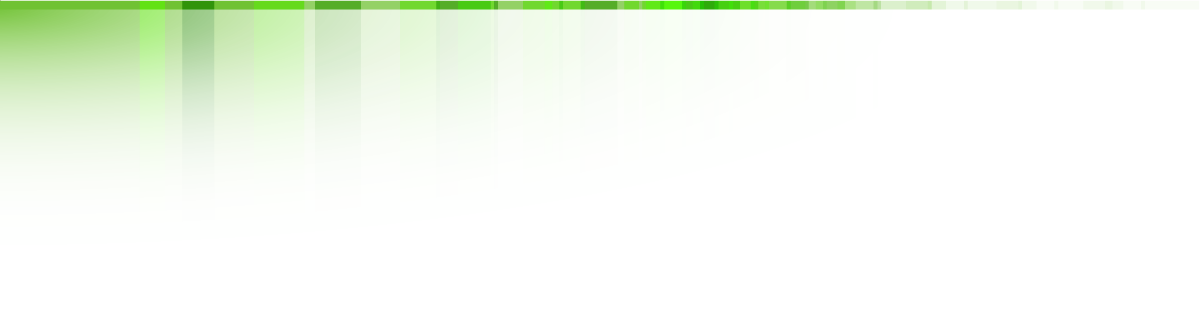
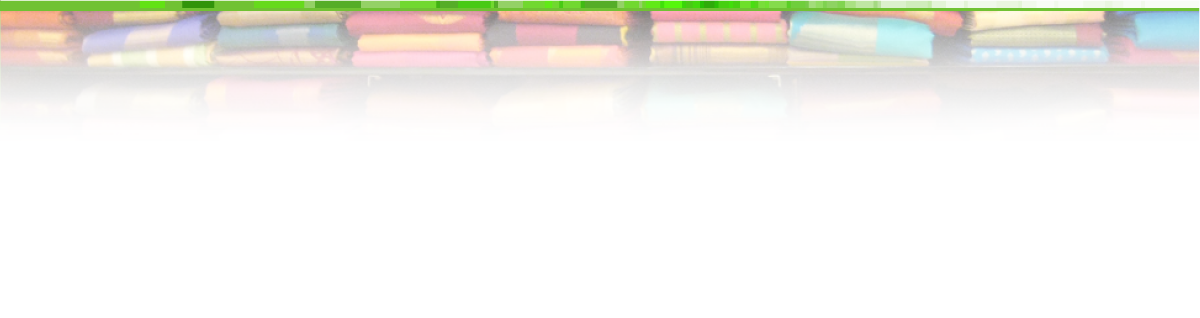
bold changes in hero-unit oip-layouts/test-oip-layout-landing.phtml
warning: H1 a and H1 small are now white and whitesmoke

Changed region(s): [[0.0, 0.0, 1.0, 0.4245]]

diff --git a/caloomhtml/UI/docs/oip-additions/oip-assets/oip-css/oip-bootstrap.css b/caloomhtml/UI/docs/oip-additions/oip-assets/oip-css/oip-bootstrap.css
@@ -4795,12 +4795,12 @@ a.badge:hover {
 /* Aalto Specific Styling */
 .hero-unit,
 .oip-marketing {
-  background-image: url("http://caloomgit:8888/UI/docs//../oip-additions/oip-assets/oip-images/ui/hero-unit-aaltoBlack.png");
+  background-image: url("http://caloomgit:8888/UI/docs//../oip-additions/oip-assets/oip-images/ui/oip-hero-solid-turquoise.png");
   background-repeat: no-repeat;
   width: auto;
 }
 div.blog > .oip-marketing {
-  background-image: url("http://caloomgit:8888/UI/docs//../oip-additions/oip-assets/oip-images/ui/hero-unit-aaltoLightgreen.png");
+  background-image: url("http://caloomgit:8888/UI/docs//../oip-additions/oip-assets/oip-images/ui/oip-hero-solid-turquoise.png");
 }
 div.about > .oip-marketing {
   background-image: url("http://caloomgit:8888/UI/docs//../oip-additions/oip-assets/oip-images/ui/hero-unit-aaltoPurple.png");

diff --git a/caloomhtml/UI/docs/oip-additions/oip-assets/less/oip-aalto-id.less b/caloomhtml/UI/docs/oip-additions/oip-assets/less/oip-aalto-id.less
@@ -32,12 +32,12 @@
 //.navbar .nav > li.activity:hover a {color:@aaltoTurquoise;}
 
 .hero-unit, .oip-marketing {
-background-image: url("@{base-url-local}/../oip-additions/oip-assets/oip-images/ui/hero-unit-aaltoBlack.png");
+background-image: url("@{base-url-local}/../oip-additions/oip-assets/oip-images/ui/oip-hero-solid-turquoise.png");
 background-repeat: no-repeat ;
  width: auto;
 }
 div.blog >.oip-marketing {
-  background-image: url("@{base-url-local}/../oip-additions/oip-assets/oip-images/ui/hero-unit-aaltoLightgreen.png");
+  background-image: url("@{base-url-local}/../oip-additions/oip-assets/oip-images/ui/oip-hero-solid-turquoise.png");
 }
 div.about >.oip-marketing {
   background-image: url("@{base-url-local}/../oip-additions/oip-assets/oip-images/ui/hero-unit-aaltoPurple.png");
